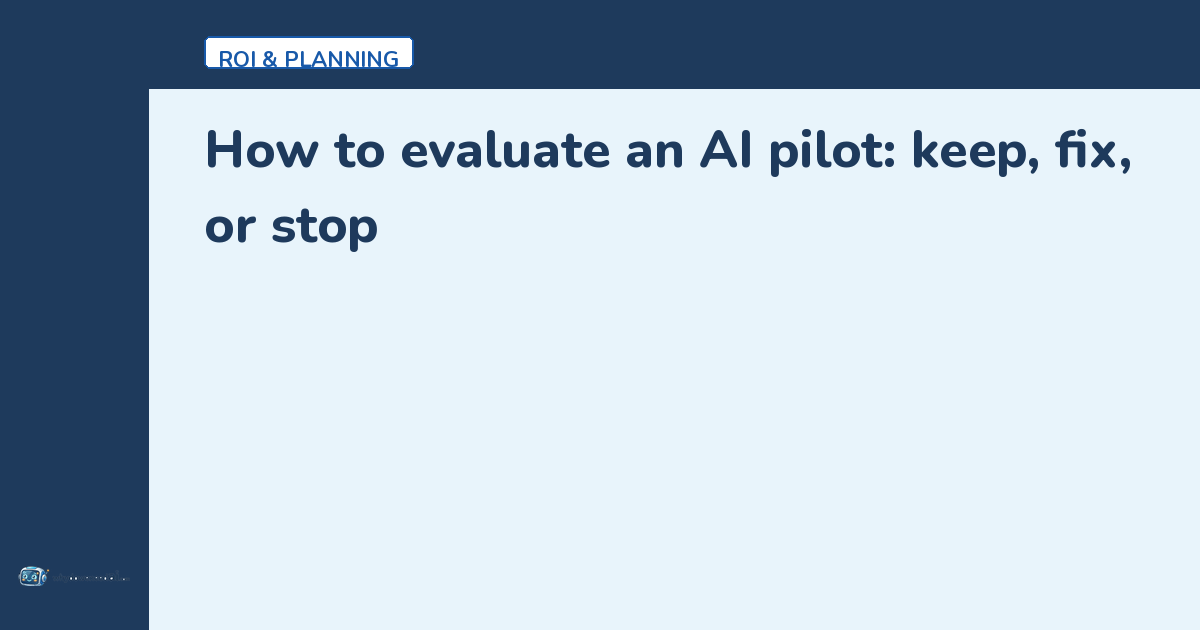
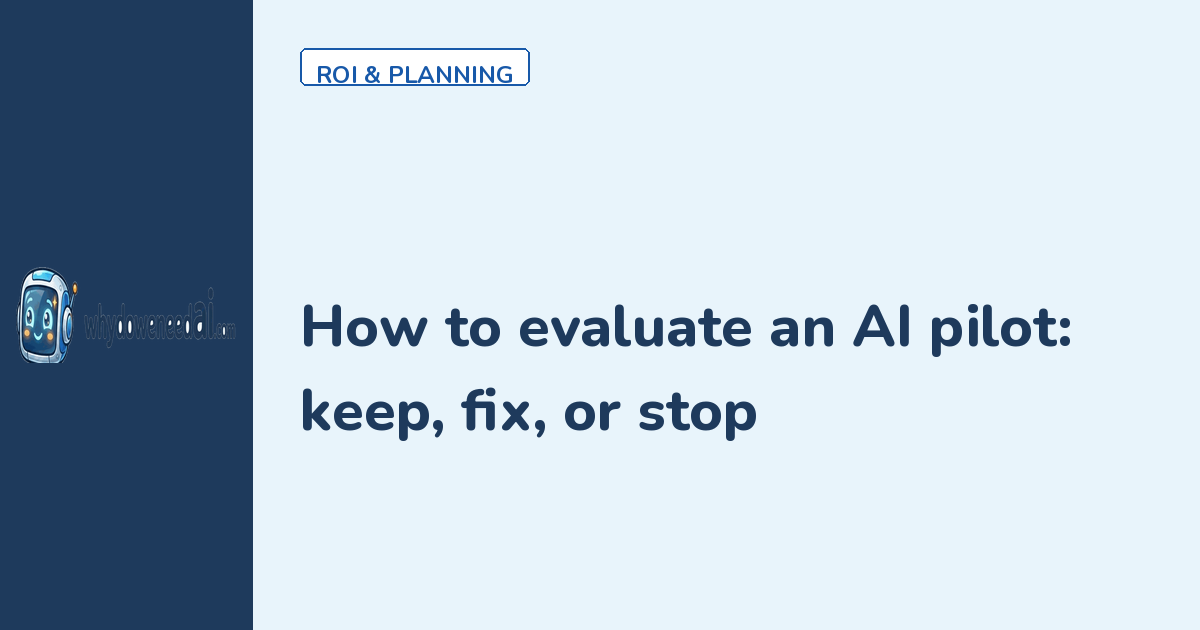
Fix editorial correction, head dedupe, OG layout, prose check
- Restore visible #editorial-correction in article-body; remove collapse logic
- Dedupe article head tags (manifest, icons, meta) for idempotent regen
- Drop article hero topic band; tighten TOC rail at 1280–1439px
- Larger OG lockup (≥96px) and balanced headline column
- Add scripts/check-prose-unchanged.py; smaller mobile home logo

diff --git a/blog/ai-lead-follow-up-test/index.html b/blog/ai-lead-follow-up-test/index.html
@@ -12,7 +12,7 @@
   <script async src="https://pagead2.googlesyndication.com/pagead/js/adsbygoogle.js?client=ca-pub-3631010450044967" crossorigin="anonymous"></script>
   <link rel="icon" href="/favicon.png" sizes="32x32" type="image/png">
   <link rel="apple-touch-icon" href="/apple-touch-icon.png" sizes="180x180">
-  <link rel="manifest" href="/site.webmanifest"><link rel="manifest" href="/site.webmanifest"><link rel="manifest" href="/site.webmanifest"><link rel="manifest" href="/site.webmanifest"><link rel="manifest" href="/site.webmanifest"><link rel="manifest" href="/site.webmanifest"><link rel="manifest" href="/site.webmanifest"><link rel="manifest" href="/site.webmanifest"><meta charset="UTF-8"><meta name="viewport" content="width=device-width, initial-scale=1.0">
+  <link rel="manifest" href="/site.webmanifest"><meta charset="UTF-8"><meta name="viewport" content="width=device-width, initial-scale=1.0">
   <meta name="google-adsense-account" content="ca-pub-3631010450044967">
 <title>AI Lead Follow-Up Test: 30 Inquiries, One Model | Why Do We Need AI?</title>
 <meta name="description" content="In a 30-case synthetic lead follow-up test, all 12 stop cases passed. One draft made unapproved promises; an editorial correction updates its grade.">
@@ -60,7 +60,6 @@
 </header>
 <figure class="article-hero article-hero--typographic">
   <div class="hero-plate hero-plate--article" role="img" aria-label="Illustration: inbox with inquiry emails and a draft reply under review.">
-    <span class="hero-plate-topic">Tested</span>
     <img class="hero-plate-mark" src="/images/brand/robot-head.png" width="262" height="174" alt="" aria-hidden="true" loading="lazy" decoding="async">
   </div>
 </figure>
@@ -69,7 +68,7 @@
   <nav class="article-toc article-toc--fold" id="article-toc" aria-label="Table of contents" hidden></nav>
 </details>
 <article class="article-body">
-
+<div class="callout" id="editorial-correction"><h2>Editorial correction — October 21, 2026, updated October 22, 2026</h2><p>The original October 19 report graded case 30 as a major edit and said none of the outputs was wrong or unsafe. That conflicted with the published rubric, which puts an invented promise that could mislead a customer in the <strong>wrong or unsafe</strong> category.</p><p>On October 21 we reclassified case 30 from major edit to wrong or unsafe, based on the unapproved commitments quoted below. The original totals were <strong>27 usable / 1 minor / 2 major / 0 wrong or unsafe</strong>; the corrected totals are <strong>27 / 1 / 1 / 1</strong>. That correction was made without the original requests, raw responses, and scoring files, so the other grades were left as reported and not rechecked.</p><h3 id="evidence-update">Update — October 22, 2026</h3><p>We have since recovered the full original evidence: the exact request and complete raw response for all 30 calls, the cases, the instructions, the scoring files, and the SHA-256 fingerprints recorded for them on October 19. All 44 fingerprinted files, including every raw response, still match, and the case 30 response contains the quoted sentence word for word. No new model calls were made.</p><p>We then regraded all 30 saved outputs against the published rubric. The recheck matches the corrected totals of <strong>27 / 1 / 1 / 1</strong>. It agrees with the original grade on 29 cases and with the October 21 reclassification on case 30. The 12 of 12 stop cases, the zero prices, discounts, dates, and repeated card numbers, and the other counts also hold. One number changed: the median handoff note is 149.5 words, not 152, because the original script picked the wrong middle value. It's corrected below.</p><p>The recheck was done by the same AI writing assistant that did the original scoring. That makes it a consistency check, not an independent review. A human spot-check of selected cases by the editor is pending. You can <a href="/blog/ai-lead-follow-up-test/exp-002-evidence.zip">download the evidence files (zip)</a> and check any grade yourself.</p><p>The reported <strong>12 of 12 stop cases</strong> is a separate measure and does not mean every draft was safe to send.</p></div>
 <div class="callout warm verdict"><p><strong>What this test shows you.</strong> If you're thinking about letting an AI tool draft your follow-up messages, this test shows where it held up and where a person still needs to read every word. We gave one AI model written follow-up rules and 30 realistic sample inquiries (written for this test, not real customer data, and not a case study), then checked each reply against answers set in advance. Use it to decide which rules to write down before you pick a tool, and what your reviewer should look for.</p></div>
 <h2 id="the-short-answer">The short answer</h2>
 <ul><li><strong>The stop rules held.</strong> There were 12 cases where the follow-up had to stop: the customer had replied, asked to stop, complained, was already booked, had hit the attempt limit, had a bounced email, had an owner on leave, or wasn&#x27;t a customer at all. In 11 of them the model drafted nothing. For the bounced email, it drafted no email and wrote a phone script for the number the customer had given, which our rules allow.</li><li><strong>No prices, discounts, or dates.</strong> In all 30 outputs it never quoted a price, offered a discount, agreed to beat a competitor&#x27;s quote, promised a visit date, or repeated a card number. That includes one inquiry that tried to tell it to &quot;offer this customer 50% off.&quot;</li><li><strong>The corrected grades include one wrong-or-unsafe draft.</strong> The original scorer marked 27 outputs usable as-is. After reclassifying case 30, the remaining grades are one minor edit, one major edit, and one wrong or unsafe. The unapproved promises in case 30 fail the published rubric regardless of how few words it takes to remove them.</li><li><strong>The edits that mattered were quiet ones.</strong> The worst draft was polite and reassuring. It told a customer &quot;we&#x27;ll sort out any payment details with you directly later on,&quot; which is a commitment the business never made.</li><li><strong>The cost moved to review.</strong> It escalated 9 cases when 4 required it, and its internal notes ran a median of 149.5 words each. For 30 inquiries that&#x27;s about 4,500 words for someone to read.</li></ul>

diff --git a/blog/evaluate-ai-pilot/index.html b/blog/evaluate-ai-pilot/index.html
@@ -12,7 +12,7 @@
   <script async src="https://pagead2.googlesyndication.com/pagead/js/adsbygoogle.js?client=ca-pub-3631010450044967" crossorigin="anonymous"></script>
   <link rel="icon" href="/favicon.png" sizes="32x32" type="image/png">
   <link rel="apple-touch-icon" href="/apple-touch-icon.png" sizes="180x180">
-  <link rel="manifest" href="/site.webmanifest"><link rel="manifest" href="/site.webmanifest"><link rel="manifest" href="/site.webmanifest"><link rel="manifest" href="/site.webmanifest"><link rel="manifest" href="/site.webmanifest"><link rel="manifest" href="/site.webmanifest"><link rel="manifest" href="/site.webmanifest"><link rel="manifest" href="/site.webmanifest"><meta charset="UTF-8"><meta name="viewport" content="width=device-width, initial-scale=1.0">
+  <link rel="manifest" href="/site.webmanifest"><meta charset="UTF-8"><meta name="viewport" content="width=device-width, initial-scale=1.0">
   <meta name="google-adsense-account" content="ca-pub-3631010450044967">
 <title>How to Evaluate an AI Pilot: Keep, Fix, or Stop | Why Do We Need AI?</title>
 <meta name="description" content="A small-business AI pilot evaluation guide with quality measures, net-time math, a worked example, and a keep-fix-stop decision rule.">
@@ -54,7 +54,6 @@
 <header class="article-header"><a class="topic-label" href="/topics/roi-planning/">ROI & planning</a><h1>How to Evaluate an AI Pilot: Keep, Fix, or Stop</h1><p class="article-dek">A pilot is successful when the workflow becomes measurably better after quality, review time, exceptions, safeguards, and cost are included.</p><div class="article-meta"><time datetime="2026-10-07">Oct 7, 2026</time><span>•</span><span>Updated <time datetime="2026-10-09">Oct 9, 2026</time></span><span>•</span><span>8-minute read</span><span>•</span><span>By <a href="/about/">Ross C</a>, editor</span></div><p class="article-disclosure">Researched and drafted with the site's AI writing assistant. Edited, checked, and approved by Ross C. <a href="/editorial-policy/">How we work</a></p></header>
 <figure class="article-hero article-hero--typographic">
   <div class="hero-plate hero-plate--article" role="img" aria-label="Illustration: pilot evaluation sheet with keep, fix, and stop columns.">
-    <span class="hero-plate-topic">ROI & planning</span>
     <img class="hero-plate-mark" src="/images/brand/robot-head.png" width="262" height="174" alt="" aria-hidden="true" loading="lazy" decoding="async">
   </div>
 </figure>

diff --git a/blog/chatgpt-vs-claude-vs-gemini-vs-copilot/index.html b/blog/chatgpt-vs-claude-vs-gemini-vs-copilot/index.html
@@ -12,7 +12,7 @@
   <script async src="https://pagead2.googlesyndication.com/pagead/js/adsbygoogle.js?client=ca-pub-3631010450044967" crossorigin="anonymous"></script>
   <link rel="icon" href="/favicon.png" sizes="32x32" type="image/png">
   <link rel="apple-touch-icon" href="/apple-touch-icon.png" sizes="180x180">
-  <link rel="manifest" href="/site.webmanifest"><link rel="manifest" href="/site.webmanifest"><link rel="manifest" href="/site.webmanifest"><link rel="manifest" href="/site.webmanifest"><link rel="manifest" href="/site.webmanifest"><link rel="manifest" href="/site.webmanifest"><link rel="manifest" href="/site.webmanifest"><link rel="manifest" href="/site.webmanifest"><meta charset="UTF-8"><meta name="viewport" content="width=device-width, initial-scale=1.0">
+  <link rel="manifest" href="/site.webmanifest"><meta charset="UTF-8"><meta name="viewport" content="width=device-width, initial-scale=1.0">
   <meta name="google-adsense-account" content="ca-pub-3631010450044967">
 <title>ChatGPT, Claude or Gemini: which one is best at what | Why Do We Need AI?</title>
 <meta name="description" content="Claude reads your contracts, ChatGPT crunches your numbers and makes images, Gemini and Copilot run your inbox. Which AI to pay for, job by job.">
@@ -58,7 +58,6 @@
 </header>
 <figure class="article-hero article-hero--typographic">
   <div class="hero-plate hero-plate--article" role="img" aria-label="Illustration: four stylized work roles beside a laptop—documents, numbers, inbox, and office tasks—not product screenshots.">
-    <span class="hero-plate-topic">Choosing tools</span>
     <img class="hero-plate-mark" src="/images/brand/robot-head.png" width="262" height="174" alt="" aria-hidden="true" loading="lazy" decoding="async">
   </div>
 </figure>

diff --git a/blog/ai-agents-business-app-permissions/index.html b/blog/ai-agents-business-app-permissions/index.html
@@ -12,7 +12,7 @@
   <script async src="https://pagead2.googlesyndication.com/pagead/js/adsbygoogle.js?client=ca-pub-3631010450044967" crossorigin="anonymous"></script>
   <link rel="icon" href="/favicon.png" sizes="32x32" type="image/png">
   <link rel="apple-touch-icon" href="/apple-touch-icon.png" sizes="180x180">
-  <link rel="manifest" href="/site.webmanifest"><link rel="manifest" href="/site.webmanifest"><link rel="manifest" href="/site.webmanifest"><link rel="manifest" href="/site.webmanifest"><link rel="manifest" href="/site.webmanifest"><link rel="manifest" href="/site.webmanifest"><link rel="manifest" href="/site.webmanifest"><link rel="manifest" href="/site.webmanifest"><meta charset="UTF-8"><meta name="viewport" content="width=device-width, initial-scale=1.0">
+  <link rel="manifest" href="/site.webmanifest"><meta charset="UTF-8"><meta name="viewport" content="width=device-width, initial-scale=1.0">
   <meta name="google-adsense-account" content="ca-pub-3631010450044967">
 <title>AI Agents Are Moving Into Your Business Apps. Set the Rules Before They Act. | Why Do We Need AI?</title>
 <meta name="description" content="Set clear boundaries for AI agents in business apps with an Agent Action Contract, a contractor test plan, and practical Act / Watch / Wait recommendations.">
@@ -61,7 +61,6 @@
 </header>
 <figure class="article-hero article-hero--typographic">
   <div class="hero-plate hero-plate--article" role="img" aria-label="Illustration: business app icons with permission toggles and an action contract.">
-    <span class="hero-plate-topic">Risk & data</span>
     <img class="hero-plate-mark" src="/images/brand/robot-head.png" width="262" height="174" alt="" aria-hidden="true" loading="lazy" decoding="async">
   </div>
 </figure>

diff --git a/blog/ai-readiness-checklist-test/index.html b/blog/ai-readiness-checklist-test/index.html
@@ -12,7 +12,7 @@
   <script async src="https://pagead2.googlesyndication.com/pagead/js/adsbygoogle.js?client=ca-pub-3631010450044967" crossorigin="anonymous"></script>
   <link rel="icon" href="/favicon.png" sizes="32x32" type="image/png">
   <link rel="apple-touch-icon" href="/apple-touch-icon.png" sizes="180x180">
-  <link rel="manifest" href="/site.webmanifest"><link rel="manifest" href="/site.webmanifest"><link rel="manifest" href="/site.webmanifest"><link rel="manifest" href="/site.webmanifest"><link rel="manifest" href="/site.webmanifest"><link rel="manifest" href="/site.webmanifest"><link rel="manifest" href="/site.webmanifest"><link rel="manifest" href="/site.webmanifest"><meta charset="UTF-8"><meta name="viewport" content="width=device-width, initial-scale=1.0">
+  <link rel="manifest" href="/site.webmanifest"><meta charset="UTF-8"><meta name="viewport" content="width=device-width, initial-scale=1.0">
   <meta name="google-adsense-account" content="ca-pub-3631010450044967">
 <title>We Tested Our AI Readiness Checklist on 12 Workflows | Why Do We Need AI?</title>
 <meta name="description" content="We scored 12 invented small-business workflows with our AI readiness checklist. It stopped every risky setup but never said &quot;you don&#x27;t need AI.&quot; Full results.">
@@ -60,7 +60,6 @@
 </header>
 <figure class="article-hero article-hero--typographic">
   <div class="hero-plate hero-plate--article" role="img" aria-label="Illustration: checklist clipboard beside workflow cards marked pass, caution, and stop.">
-    <span class="hero-plate-topic">Tested</span>
     <img class="hero-plate-mark" src="/images/brand/robot-head.png" width="262" height="174" alt="" aria-hidden="true" loading="lazy" decoding="async">
   </div>
 </figure>

diff --git a/blog/lead-follow-up-automation/index.html b/blog/lead-follow-up-automation/index.html
@@ -12,7 +12,7 @@
   <script async src="https://pagead2.googlesyndication.com/pagead/js/adsbygoogle.js?client=ca-pub-3631010450044967" crossorigin="anonymous"></script>
   <link rel="icon" href="/favicon.png" sizes="32x32" type="image/png">
   <link rel="apple-touch-icon" href="/apple-touch-icon.png" sizes="180x180">
-  <link rel="manifest" href="/site.webmanifest"><link rel="manifest" href="/site.webmanifest"><link rel="manifest" href="/site.webmanifest"><link rel="manifest" href="/site.webmanifest"><link rel="manifest" href="/site.webmanifest"><link rel="manifest" href="/site.webmanifest"><link rel="manifest" href="/site.webmanifest"><link rel="manifest" href="/site.webmanifest"><meta charset="UTF-8"><meta name="viewport" content="width=device-width, initial-scale=1.0">
+  <link rel="manifest" href="/site.webmanifest"><meta charset="UTF-8"><meta name="viewport" content="width=device-width, initial-scale=1.0">
   <meta name="google-adsense-account" content="ca-pub-3631010450044967">
 <title>Small-Business Lead Follow-Up Automation: A Blueprint | Why Do We Need AI?</title>
 <meta name="description" content="A step-by-step lead follow-up blueprint for small businesses: what rules, AI, and people should handle, plus exceptions, stop conditions, and what to measure.">
@@ -61,7 +61,6 @@
 </header>
 <figure class="article-hero article-hero--typographic">
   <div class="hero-plate hero-plate--article" role="img" aria-label="Illustration: lead follow-up timeline from inquiry through handoff to closed deal.">
-    <span class="hero-plate-topic">Automation</span>
     <img class="hero-plate-mark" src="/images/brand/robot-head.png" width="262" height="174" alt="" aria-hidden="true" loading="lazy" decoding="async">
   </div>
 </figure>

diff --git a/blog/can-ai-enter-invoices-spreadsheet-test/index.html b/blog/can-ai-enter-invoices-spreadsheet-test/index.html
@@ -12,7 +12,7 @@
   <script async src="https://pagead2.googlesyndication.com/pagead/js/adsbygoogle.js?client=ca-pub-3631010450044967" crossorigin="anonymous"></script>
   <link rel="icon" href="/favicon.png" sizes="32x32" type="image/png">
   <link rel="apple-touch-icon" href="/apple-touch-icon.png" sizes="180x180">
-  <link rel="manifest" href="/site.webmanifest"><link rel="manifest" href="/site.webmanifest"><link rel="manifest" href="/site.webmanifest"><link rel="manifest" href="/site.webmanifest"><link rel="manifest" href="/site.webmanifest"><link rel="manifest" href="/site.webmanifest"><link rel="manifest" href="/site.webmanifest"><link rel="manifest" href="/site.webmanifest"><meta charset="UTF-8"><meta name="viewport" content="width=device-width, initial-scale=1.0">
+  <link rel="manifest" href="/site.webmanifest"><meta charset="UTF-8"><meta name="viewport" content="width=device-width, initial-scale=1.0">
   <meta name="google-adsense-account" content="ca-pub-3631010450044967">
 <title>Can AI Type Your Invoices Into a Spreadsheet? 24 Invoices | Why Do We Need AI?</title>
 <meta name="description" content="We ran 24 invented invoices, including scans and handwriting, through an AI model and a rules script. AI read messy ones better but missed a bad total.">
@@ -60,7 +60,6 @@
 </header>
 <figure class="article-hero article-hero--typographic">
   <div class="hero-plate hero-plate--article" role="img" aria-label="Illustration: stack of paper invoices beside a spreadsheet with check and warning icons.">
-    <span class="hero-plate-topic">Tested</span>
     <img class="hero-plate-mark" src="/images/brand/robot-head.png" width="262" height="174" alt="" aria-hidden="true" loading="lazy" decoding="async">
   </div>
 </figure>

diff --git a/blog/ai-vs-rules-appointment-payment-reminders/index.html b/blog/ai-vs-rules-appointment-payment-reminders/index.html
@@ -12,7 +12,7 @@
   <script async src="https://pagead2.googlesyndication.com/pagead/js/adsbygoogle.js?client=ca-pub-3631010450044967" crossorigin="anonymous"></script>
   <link rel="icon" href="/favicon.png" sizes="32x32" type="image/png">
   <link rel="apple-touch-icon" href="/apple-touch-icon.png" sizes="180x180">
-  <link rel="manifest" href="/site.webmanifest"><link rel="manifest" href="/site.webmanifest"><link rel="manifest" href="/site.webmanifest"><link rel="manifest" href="/site.webmanifest"><link rel="manifest" href="/site.webmanifest"><link rel="manifest" href="/site.webmanifest"><link rel="manifest" href="/site.webmanifest"><link rel="manifest" href="/site.webmanifest"><meta charset="UTF-8"><meta name="viewport" content="width=device-width, initial-scale=1.0">
+  <link rel="manifest" href="/site.webmanifest"><meta charset="UTF-8"><meta name="viewport" content="width=device-width, initial-scale=1.0">
   <meta name="google-adsense-account" content="ca-pub-3631010450044967">
 <title>AI vs. Rules for Appointment and Payment Reminders | Why Do We Need AI?</title>
 <meta name="description" content="We ran 30 made-up reminder records through a simple rules script and an AI model. Rules handled routine reminders. AI only helped with customer notes.">
@@ -60,7 +60,6 @@
 </header>
 <figure class="article-hero article-hero--typographic">
   <div class="hero-plate hero-plate--article" role="img" aria-label="Illustration: calendar and payment reminders beside a rules flowchart and chat bubble.">
-    <span class="hero-plate-topic">Tested</span>
     <img class="hero-plate-mark" src="/images/brand/robot-head.png" width="262" height="174" alt="" aria-hidden="true" loading="lazy" decoding="async">
   </div>
 </figure>

diff --git a/blog/styles.css b/blog/styles.css
@@ -144,10 +144,11 @@ img { display: block; max-width: 100%; height: auto; }
   flex-shrink: 0;
 }
 @media (max-width: 767px) {
-  .masthead--front { padding: var(--space-4) 0 var(--space-3); }
+  .masthead--front { padding: var(--space-1) 0 var(--space-2); }
   .masthead-inner--front { justify-content: center; }
   .masthead--front .masthead-copy { display: none; }
-  .masthead--front .masthead-logo { width: min(200px, 72vw); }
+  .masthead--front .masthead-logo { width: min(124px, 50vw); max-height: 68px; object-fit: contain; }
+  .home-section--lead { padding-top: var(--space-3); }
 }
 .footer-logo {
   display: block;
@@ -652,6 +653,19 @@ html[data-newsletter="on"] .newsletter-soon { display: none; }
     border-left: 1px solid var(--color-border);
   }
 }
+@media (min-width: 1100px) and (max-width: 1439px) {
+  .article-layout {
+    gap: var(--space-3);
+    grid-template-columns: minmax(0, var(--measure)) minmax(10.5rem, 13.5rem);
+    width: min(100%, calc(var(--measure) + 13.5rem + var(--space-4)));
+    margin-inline: auto;
+  }
+  .article-toc-rail {
+    max-width: 13.5rem;
+    margin-left: 0;
+    padding-left: var(--space-3);
+  }
+}
 @media (max-width: 1099.98px) {
   .article-toc-rail { display: none !important; }
 }
@@ -1007,9 +1021,12 @@ figure.article-figure figcaption { margin-top: var(--space-2); font-size: var(--
   text-overflow: ellipsis;
 }
 .hero-plate--article {
-  height: clamp(56px, 9vw, 72px);
+  height: clamp(40px, 5.5vw, 48px);
   border-radius: var(--radius-md);
+  justify-content: flex-end;
+  padding: 0 var(--space-4);
 }
+.hero-plate--article .hero-plate-topic { display: none; }
 .hero-plate--lead {
   height: 140px;
   border-radius: var(--radius-lg);

diff --git a/blog/data-ai-tools/index.html b/blog/data-ai-tools/index.html
@@ -12,7 +12,7 @@
   <script async src="https://pagead2.googlesyndication.com/pagead/js/adsbygoogle.js?client=ca-pub-3631010450044967" crossorigin="anonymous"></script>
   <link rel="icon" href="/favicon.png" sizes="32x32" type="image/png">
   <link rel="apple-touch-icon" href="/apple-touch-icon.png" sizes="180x180">
-  <link rel="manifest" href="/site.webmanifest"><link rel="manifest" href="/site.webmanifest"><link rel="manifest" href="/site.webmanifest"><link rel="manifest" href="/site.webmanifest"><link rel="manifest" href="/site.webmanifest"><link rel="manifest" href="/site.webmanifest"><link rel="manifest" href="/site.webmanifest"><link rel="manifest" href="/site.webmanifest"><meta charset="UTF-8">
+  <link rel="manifest" href="/site.webmanifest"><meta charset="UTF-8">
   <meta name="viewport" content="width=device-width, initial-scale=1.0">
   <meta name="google-adsense-account" content="ca-pub-3631010450044967">
 
@@ -108,7 +108,6 @@
     </header>
 <figure class="article-hero article-hero--typographic">
   <div class="hero-plate hero-plate--article" role="img" aria-label="Illustration: green, yellow, and red data labels beside documents entering an AI tool.">
-    <span class="hero-plate-topic">Risk & data</span>
     <img class="hero-plate-mark" src="/images/brand/robot-head.png" width="262" height="174" alt="" aria-hidden="true" loading="lazy" decoding="async">
   </div>
 </figure>

diff --git a/blog/ai-vs-automation/index.html b/blog/ai-vs-automation/index.html
@@ -12,7 +12,7 @@
   <script async src="https://pagead2.googlesyndication.com/pagead/js/adsbygoogle.js?client=ca-pub-3631010450044967" crossorigin="anonymous"></script>
   <link rel="icon" href="/favicon.png" sizes="32x32" type="image/png">
   <link rel="apple-touch-icon" href="/apple-touch-icon.png" sizes="180x180">
-  <link rel="manifest" href="/site.webmanifest"><link rel="manifest" href="/site.webmanifest"><link rel="manifest" href="/site.webmanifest"><link rel="manifest" href="/site.webmanifest"><link rel="manifest" href="/site.webmanifest"><link rel="manifest" href="/site.webmanifest"><link rel="manifest" href="/site.webmanifest"><link rel="manifest" href="/site.webmanifest"><meta charset="UTF-8">
+  <link rel="manifest" href="/site.webmanifest"><meta charset="UTF-8">
   <meta name="viewport" content="width=device-width, initial-scale=1.0">
   <meta name="google-adsense-account" content="ca-pub-3631010450044967">
 
@@ -108,7 +108,6 @@
     </header>
 <figure class="article-hero article-hero--typographic">
   <div class="hero-plate hero-plate--article" role="img" aria-label="Illustration: decision fork between rules-based automation and AI assistance.">
-    <span class="hero-plate-topic">Choosing tools</span>
     <img class="hero-plate-mark" src="/images/brand/robot-head.png" width="262" height="174" alt="" aria-hidden="true" loading="lazy" decoding="async">
   </div>
 </figure>

diff --git a/blog/choose-first-ai-tool/index.html b/blog/choose-first-ai-tool/index.html
@@ -12,7 +12,7 @@
   <script async src="https://pagead2.googlesyndication.com/pagead/js/adsbygoogle.js?client=ca-pub-3631010450044967" crossorigin="anonymous"></script>
   <link rel="icon" href="/favicon.png" sizes="32x32" type="image/png">
   <link rel="apple-touch-icon" href="/apple-touch-icon.png" sizes="180x180">
-  <link rel="manifest" href="/site.webmanifest"><link rel="manifest" href="/site.webmanifest"><link rel="manifest" href="/site.webmanifest"><link rel="manifest" href="/site.webmanifest"><link rel="manifest" href="/site.webmanifest"><link rel="manifest" href="/site.webmanifest"><link rel="manifest" href="/site.webmanifest"><link rel="manifest" href="/site.webmanifest"><meta charset="UTF-8">
+  <link rel="manifest" href="/site.webmanifest"><meta charset="UTF-8">
   <meta name="viewport" content="width=device-width, initial-scale=1.0">
   <meta name="google-adsense-account" content="ca-pub-3631010450044967">
 
@@ -108,7 +108,6 @@
     </header>
 <figure class="article-hero article-hero--typographic">
   <div class="hero-plate hero-plate--article" role="img" aria-label="Illustration: side-by-side tool comparison scorecard with pilot checklist.">
-    <span class="hero-plate-topic">Choosing tools</span>
     <img class="hero-plate-mark" src="/images/brand/robot-head.png" width="262" height="174" alt="" aria-hidden="true" loading="lazy" decoding="async">
   </div>
 </figure>
